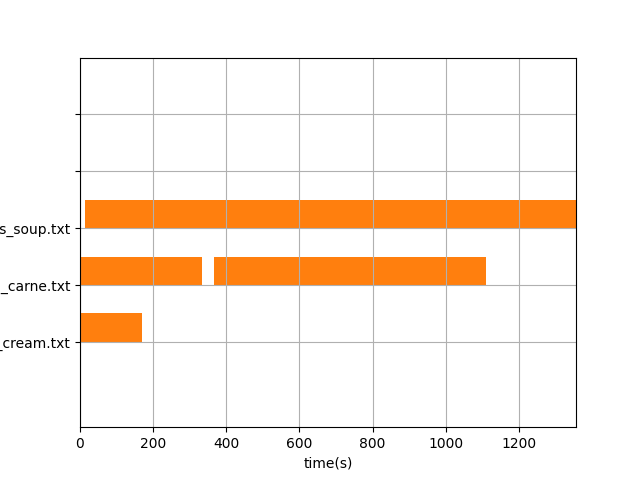
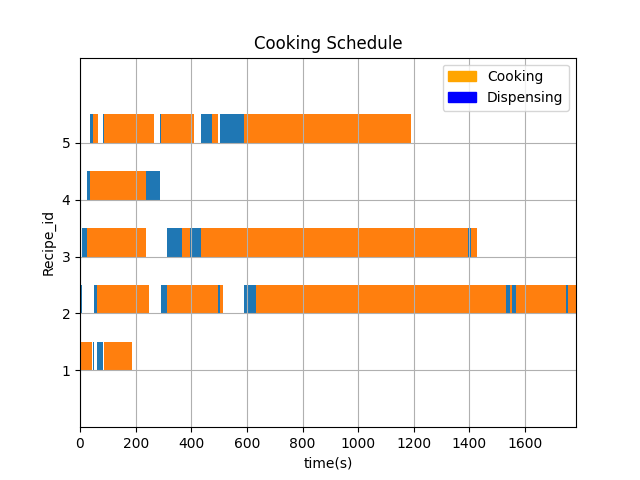
I created a schedule with all five robots making a dish, plotted a gant chart for it, and added the chart to the README

diff --git a/src/plotSchedule.py b/src/plotSchedule.py
@@ -1,8 +1,9 @@
-import matplotlib.pyplot as plt 
 import re
 import sys
+import matplotlib.pyplot as plt 
+import matplotlib.patches as mpatches
 
-schedule = open("../allSchedules/schedule.csv", "r")
+schedule = open("../schedules/schedule.csv", "r")
 
 allSteps = []
 allRecipe_ids = []
@@ -25,16 +26,22 @@ allSteps.sort(key = lambda x: x[0])
 
 fig, gnt = plt.subplots()
 
+plt.title('Cooking Schedule')
 gnt.set_ylim(0, 65)
 gnt.set_xlim(0, finalEndTime)
 gnt.set_xlabel('time(s)')
 gnt.set_ylabel('Recipe_id')
 
-yTicks = [15, 25, 35, 45, 55]
+yTicks = [10, 20, 30, 40, 50]
 gnt.set_yticks(yTicks)
-gnt.set_yticklabels(allRecipe_ids)
+gnt.set_yticklabels([1, 2, 3, 4, 5])
 gnt.grid(True)
 
+cookingColor = ('tab:orange')
+dispensingColor = ('tab:blue')
+orange_patch = mpatches.Patch(color='orange', label='Cooking')
+blue_patch = mpatches.Patch(color='blue', label='Dispensing')
+plt.legend(handles=[orange_patch, blue_patch])
 
 for i in range(len(allRecipe_ids)):
     for item in allSteps:
@@ -42,7 +49,10 @@ for i in range(len(allRecipe_ids)):
         recipe_id, step_type, startTime, duration = item
         if (recipe_id == allRecipe_ids[i]):
             # add gant chart item 
-            gnt.broken_barh([(float(startTime), float(duration))], (yTicks[i], 5), facecolors =('tab:orange'))  
+            if (step_type == 'c'):
+                gnt.broken_barh([(float(startTime), float(duration))], (yTicks[i], 5), facecolors=cookingColor)  
+            else:
+                gnt.broken_barh([(float(startTime), float(duration))], (yTicks[i], 5), facecolors=dispensingColor)
 
 
 plt.savefig("schedule.png") 

diff --git a/src/order.cpp b/src/order.cpp
@@ -69,7 +69,7 @@ void order::createSchedule(std::string& scheduleName) {
 void order::writeToCSV(std::string& scheduleName) { 
 	using namespace std;
 
-	string relativePath = "../allSchedules/"; 
+	string relativePath = "../schedules/"; 
 
 	// Write the list of recipe_ids to the file path/recipe_ids.csv
 	ofstream ofs(relativePath + scheduleName);

diff --git a/README.md b/README.md
@@ -23,7 +23,7 @@ I used gtest to create unit tests. test/runUnitTests has a set of tests for crea
 ```./runUnitTests```
 
 # Dependencies
-matplotlib, (```pip install matplotlib```)
+matplotlib, (```pip install matplotlib```) <br />
 C++ 14 <br />
 Python3 <br />
 CMake <br />
